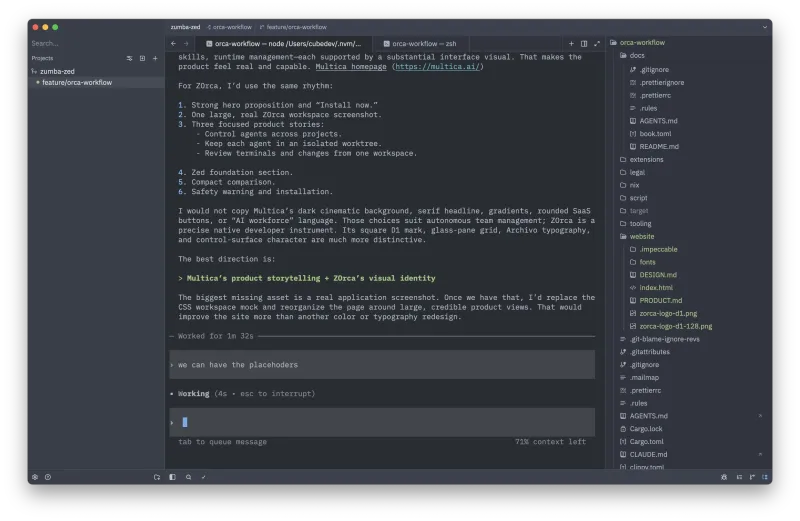
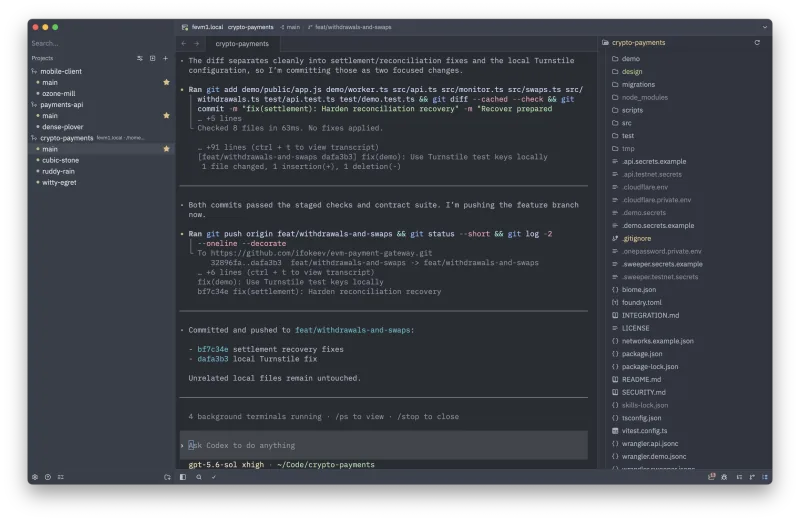
docs: update installation guidance and screenshot

diff --git a/website/index.html b/website/index.html
@@ -204,7 +204,7 @@ FORM: Multica-inspired product storytelling with ZOrca content and identity; app
     <h1>All your agents. All your projects. One native workspace.</h1>
     <p class="lead">ZOrca is an Agent Development Environment that uses Zed as its foundation. Each coding agent gets a Git worktree, terminal, and diff. When you return, ZOrca restores the project and session context.</p>
     <a class="cta" href="#install">Install ZOrca</a>
-    <p class="status">Pre-alpha · Source builds for macOS and Linux · Homebrew planned</p>
+    <p class="status">Pre-alpha · Nightly builds for Windows and Linux · macOS source builds</p>
   </div>
   <figure class="hero-shot">
     <img src="zorca-workspace-800.webp" srcset="zorca-workspace-800.webp 800w, zorca-workspace.webp 1600w" sizes="(max-width:850px) calc(100vw - 2rem), 800px" width="1600" height="1041" alt="ZOrca showing project worktrees, an agent terminal, and repository files" fetchpriority="high" onload="this.parentElement.classList.add('loaded')">
@@ -264,8 +264,8 @@ FORM: Multica-inspired product storytelling with ZOrca content and identity; app
 
   <section class="section install" id="install">
     <div class="wrap install-grid">
-      <div><h2>Install ZOrca.</h2><p>The current release uses source builds for macOS and Linux. The project plans Homebrew support.</p><div class="terminal" aria-label="Source installation commands"><span class="dim"># macOS and Linux</span><span>git clone https://github.com/zorca-org/zorca.git</span><span>cd zorca</span><span class="dim"># Linux only</span><span>./script/linux</span><span>./script/download-wasi-sdk</span><span class="dim"># Build and launch</span><span>cargo run -p zed</span></div><a class="more" href="https://github.com/zorca-org/zorca#install">Read the full build instructions</a></div>
-      <div class="facts"><div class="fact"><strong>Pre-alpha</strong>Expect breaking changes.</div><div class="fact"><strong>No packaged release yet</strong>Packaged and signed releases are not currently available.</div><div class="fact"><strong>macOS and Linux</strong>Windows is not supported.</div><div class="fact"><strong>Independent and open source</strong>GPL-3.0-or-later. Not affiliated with Zed Industries or Stably AI.</div></div>
+      <div><h2>Install ZOrca.</h2><p>Download nightly builds for Windows and Linux from <a href="https://github.com/zorca-org/zorca/releases">GitHub Releases</a>. macOS currently uses a source build.</p><div class="terminal" aria-label="Source installation commands"><span class="dim"># Clone for macOS or Linux</span><span>git clone https://github.com/zorca-org/zorca.git</span><span>cd zorca</span><span class="dim"># macOS: build and install</span><span>./script/bundle-mac -i</span><span class="dim"># Linux: build and install</span><span>./script/linux</span><span>./script/download-wasi-sdk</span><span>./script/install-linux</span></div><a class="more" href="https://github.com/zorca-org/zorca#install">Read the full install instructions</a></div>
+      <div class="facts"><div class="fact"><strong>Pre-alpha</strong>Expect breaking changes.</div><div class="fact"><strong>Nightly builds</strong>Windows and Linux packages are available.</div><div class="fact"><strong>macOS source build</strong>A macOS package is not available yet.</div><div class="fact"><strong>Independent and open source</strong>GPL-3.0-or-later. Not affiliated with Zed Industries or Stably AI.</div></div>
     </div>
   </section>
 </main>

diff --git a/README.md b/README.md
@@ -18,7 +18,7 @@
 <p align="center">
   <a href="./LICENSE-GPL"><img src="https://img.shields.io/badge/license-GPL--3.0--or--later-304CFF" alt="GPL-3.0-or-later" /></a>
   <a href="#project-status"><img src="https://img.shields.io/badge/status-pre--alpha-FF654B" alt="Pre-alpha" /></a>
-  <a href="#install"><img src="https://img.shields.io/badge/platforms-macOS%20%C2%B7%20Linux-713CFF" alt="macOS and Linux" /></a>
+  <a href="#install"><img src="https://img.shields.io/badge/platforms-Windows%20%C2%B7%20Linux%20%C2%B7%20macOS-713CFF" alt="Windows, Linux, and macOS" /></a>
   <a href="https://github.com/zed-industries/zed"><img src="https://img.shields.io/badge/built%20on-Zed-071833" alt="Built on Zed" /></a>
 </p>
 
@@ -118,38 +118,69 @@ ZOrca also includes these features:
 ## Install
 
 > [!NOTE]
-> ZOrca is pre-alpha. It does not provide packaged or signed releases. The
-> source supports builds on macOS and Linux. The project plans Homebrew support.
+> ZOrca is pre-alpha. Nightly builds can change without notice. Automatic
+> updates are not available.
+
+### Nightly builds
+
+[GitHub Releases](https://github.com/zorca-org/zorca/releases) provides nightly
+builds for Windows and Linux. A macOS nightly build is not available yet.
+
+On Windows, download `ZOrca-Nightly-x86_64.exe`. Then run the installer.
+
+On Linux, download `zorca-linux-x86_64.tar.gz`. Then install it with the
+repository installer:
+
+```sh
+git clone https://github.com/zorca-org/zorca.git
+cd zorca
+ZORCA_CHANNEL=nightly \
+ZORCA_BUNDLE_PATH="$HOME/Downloads/zorca-linux-x86_64.tar.gz" \
+./script/install.sh
+```
+
+If the archive is in a different directory, change `ZORCA_BUNDLE_PATH`.
+
+### Build from source
+
+Clone the repository before you run the platform commands:
+
+```sh
+git clone https://github.com/zorca-org/zorca.git
+cd zorca
+```
 
 ### macOS
 
 Install the prerequisites from the [macOS development guide from Zed](https://zed.dev/docs/development/macos).
 
-Then run these commands:
+Build and install ZOrca in `/Applications`:
 
 ```sh
-git clone https://github.com/zorca-org/zorca.git
-cd zorca
-cargo zorca
+./script/bundle-mac -i
 ```
 
-Build a `ZOrca.app` bundle with this command:
+For development, build and run ZOrca with Cargo:
 
 ```sh
-script/bundle-mac
+cargo zorca
 ```
 
 ### Linux
 
 Install the prerequisites from the [Linux development guide from Zed](https://zed.dev/docs/development/linux).
 
-Then run these commands:
+Install the build dependencies. Then build and install ZOrca in `~/.local`:
 
 ```sh
-git clone https://github.com/zorca-org/zorca.git
-cd zorca
 ./script/linux
 ./script/download-wasi-sdk
+./script/install-linux
+```
+
+For development, build and run ZOrca with Cargo:
+
+```sh
 cargo zorca
 ```
 
@@ -205,12 +236,13 @@ changes that also apply to Zed.
 
 ## Project status
 
-ZOrca is pre-alpha. You must build ZOrca from source. Breaking changes can occur.
+ZOrca is pre-alpha. Nightly packages are available for Windows and Linux.
+macOS supports source builds. Breaking changes can occur.
 
 The current release has these limits:
 
-- ZOrca does not provide signed releases or automatic updates.
-- ZOrca does not support Windows.
+- ZOrca does not provide automatic updates.
+- ZOrca does not provide a macOS package yet.
 - ZOrca does not provide fleet orchestration or scheduled automation.
 
 ZOrca is an independent hard fork. Zed Industries and Stably AI do not endorse

diff --git a/website/PRODUCT.md b/website/PRODUCT.md
@@ -10,8 +10,9 @@ source for installation instructions and current project status.
 
 web
 
-The product documented by the website is a native desktop application for macOS
-and Linux. Windows is not supported.
+The product documented by the website is a native desktop application for
+Windows, Linux, and macOS. Nightly packages are available for Windows and
+Linux. macOS currently uses source builds.
 
 ## Users
 
@@ -88,13 +89,12 @@ Current capabilities:
 - Optional GitHub Copilot support
 - No required account or hosted ZOrca AI service
 
-ZOrca is pre-alpha. Breaking changes are expected. There are no packaged,
-signed releases or automatic updates yet.
+ZOrca is pre-alpha. Breaking changes are expected. Nightly packages are
+available for Windows and Linux. Automatic updates are not available.
 
-Before release, do not present packaged releases, signing, notarization,
-Homebrew distribution, automatic updates, or additional Linux formats as
-available.
-Public copy can identify Homebrew distribution as planned without a date.
+Public copy must identify nightly packages as pre-release builds. A macOS
+package is not available yet. Homebrew distribution remains planned without a
+date.
 
 The following areas are planned, not current capabilities:
 
